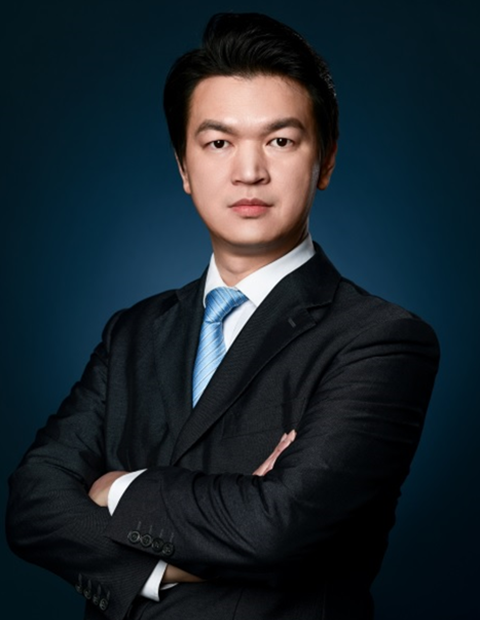
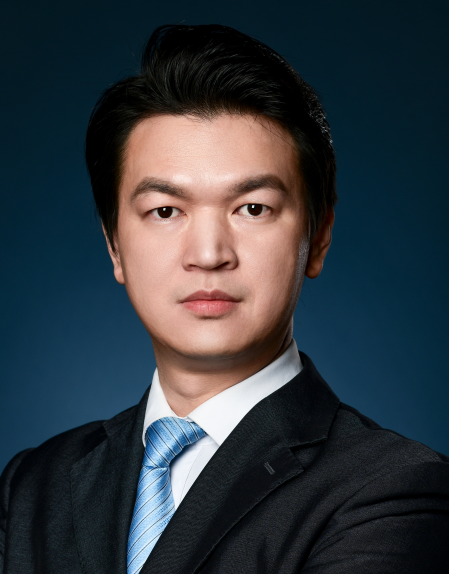
add leader info

diff --git a/index.md b/index.md
@@ -1,5 +1,19 @@
 # Home
 
+# Leaders of the Standard Working Group
+
+<img src="/image/jun-wu.png" alt="jun-wu.png" width="200">
+
+Prof. Jun Wu is Working Group Chair of IEEE P21451-1-5. His research interests include advanced computing, communications and security techniques of software-defined networks, information-centric networks smart grids, and the Internet of Things.
+
+<img src="/image/kang-lee.jpg" alt="kang-lee.jpg" width="200">
+
+Dr. Kang Lee is Working Group Co-Chair of IEEE P21451-1-5. He is an IEEE Fellow who worked with the with the National Institute of Standards and Technology with over 40 years of U.S. Government services and has continued working as a Research Associate today.
+
+<img src="/image/xinping-guan.jpg" alt="xinping-guan.jpg" width="200">
+
+Prof. Xinping Guan is the Chair of the Expert Committee of IEEE P21451-1-5 Standard. is an IEEE Fellow and currently a Chair Professor with Shanghai Jiao Tong University, Shanghai, China, where he is the Dean of the School of Electronic, Information and Electrical Engineering, and the Director of the Key Laboratory of Systems Control and Information Processing, Ministry of Education of China.
+
 ## Status
 
 **Our draft standard is being reviewed and prepared for ballot!**
@@ -38,9 +52,3 @@
 [6] Hansong Xu, **Jun Wu**, Heng Pan, Jia Gu, and **Xinping Guan**, Delay Safety-Aware Digital Twin Empowered Industrial Sensing-Actuation Systems Using Transferable and Reinforced Learning, IEEE Transactions on Industrial Informatics, DOI: 10.1109/TII.2023.3241616, 2023.
 
 [7] Hansong Xu, **Jun Wu**, Qianqian Pan, **Xinping Guan**, Mohsen Guizani, A Survey on Digital Twin for Industrial Internet of Things: Applications, Technologies and Tools,  IEEE Communications Surveys and Tutorials, DOI: 10.1109/COMST.2023.3297395, 2023.
-
-# Contact
-
-<img src="image/jun-wu.png" alt="jun-wu.png" width="200">
-
-**Jun Wu** <[junwuhn@sjtu.edu.cn](mailto:junwuhn@sjtu.edu.cn)> received the Ph.D. degree in information and telecommunication studies from Waseda University, Japan, in 2011. He is currently an Associate Professor with the School of Cyber Security, Shanghai Jiao Tong University, China, where he is also the Vice Director of the National Engineering Laboratory for Information Content Analysis Technology. His research interests include advanced computing, communications and security techniques of software-defined networks, information-centric networks smart grids, and the Internet of Things.
